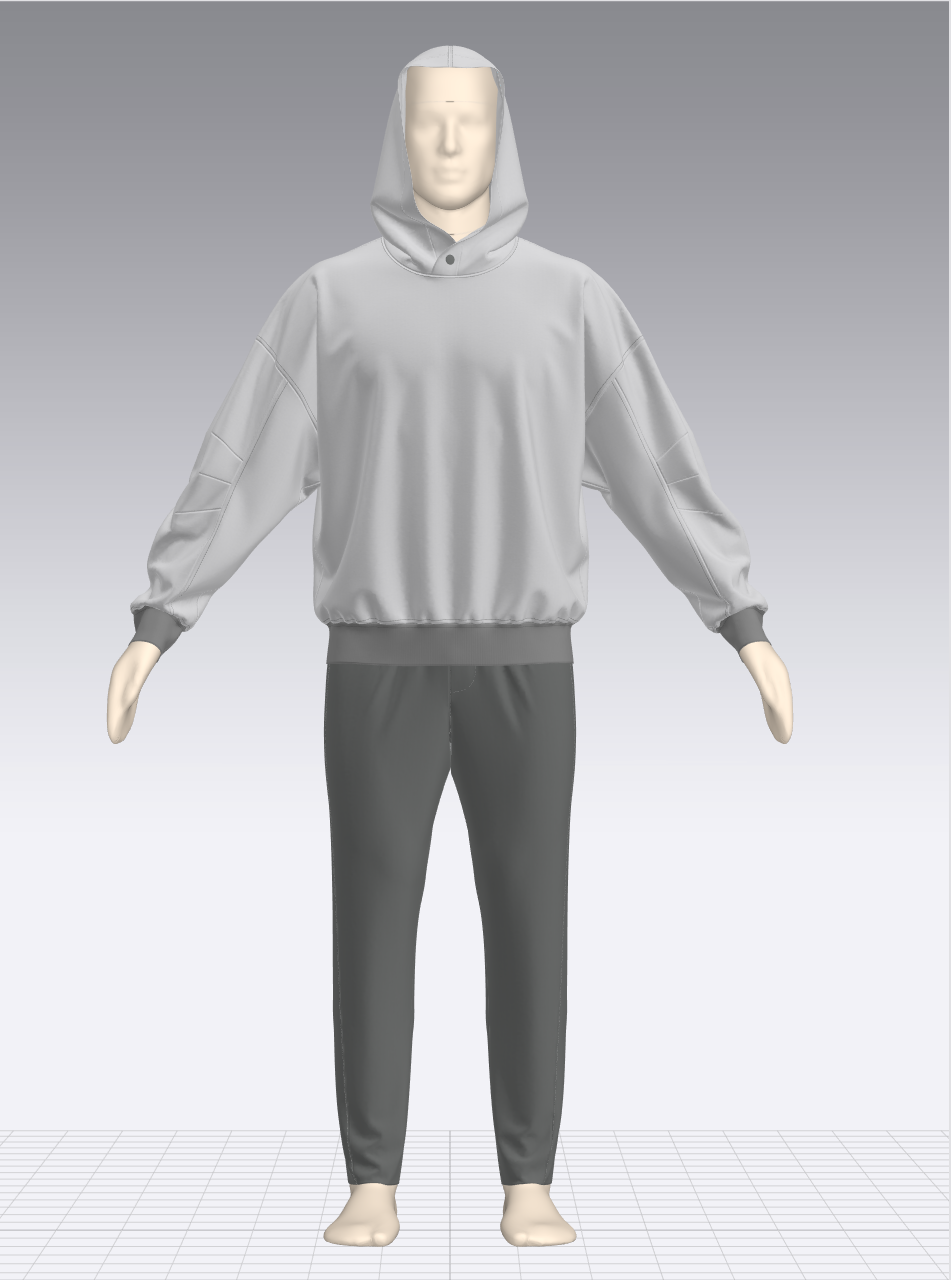
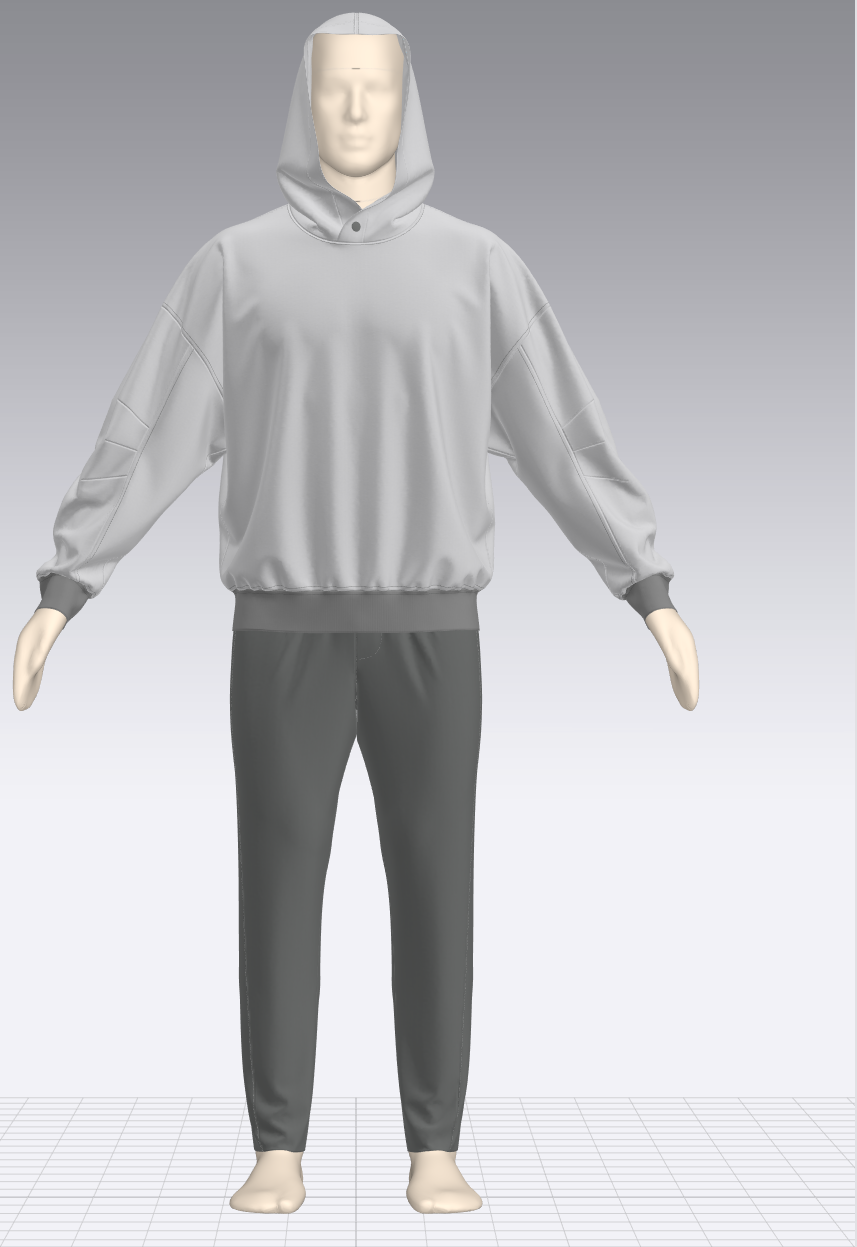
Keep a card's first image full size, pair the rest
The previous pass capped every image on a multi-image card, which shrank the
main picture too — on the 人台 card that took three wide slides from 911px to
573px wide for no gain, since they never fit a row anyway. The first image now
renders at its natural size on its own line and only the images after it share
a row, so 人台 is back to how it was and the Hood card gets what was asked for.

The two CLO captures are re-cropped tight to the avatar. Trimming the dead
space either side is what makes the pairing work: at 0.41 and 0.69 aspect they
occupy 717px of the 911px body at 640px tall, so the figures are more than
twice the size of the earlier 280px version and still sit side by side.

diff --git a/src/components/CardItem.jsx b/src/components/CardItem.jsx
@@ -80,6 +80,15 @@ export function CardHeader({ entry }) {
   );
 }
 
+// 底色固定白色（不跟著夜間模式）：這些截圖都是 CLO 的淺色介面，
+// 有些還是去背 PNG，墊深色底反而看不清楚
+function CardImage({ src }) {
+  return (
+    <Image src={imgUrl(src)}
+      style={{ maxWidth: '100%', border: '1px solid var(--border)', borderRadius: 8, background: '#fff' }} />
+  );
+}
+
 // 卡片內容（展開後顯示）
 export function CardBody({ entry }) {
   const paths = entry.paths || [];
@@ -94,15 +103,15 @@ export function CardBody({ entry }) {
         </div>
       )}
       {images.length > 0 && (
-        // 多張圖並排成一列（壓高度讓一個畫面看得完），單張圖維持原尺寸
-        <div className={images.length > 1 ? 'card-imgs card-imgs-multi' : 'card-imgs'}
-          style={{ marginTop: hasContent || paths.length ? 12 : 0 }}>
+        // 第一張是主圖，維持原尺寸自己一列；其餘（如果有）並排成一列，免得整張卡拉得太長
+        <div className="card-imgs" style={{ marginTop: hasContent || paths.length ? 12 : 0 }}>
           <Image.PreviewGroup>
-            {images.map((p, i) => (
-              /* 底色固定白色（不跟著夜間模式）：這些截圖都是 CLO 的淺色介面，
-                 有些還是去背 PNG，墊深色底反而看不清楚 */
-              <Image key={i} src={imgUrl(p)} style={{ maxWidth: '100%', border: '1px solid var(--border)', borderRadius: 8, background: '#fff' }} />
-            ))}
+            <CardImage src={images[0]} />
+            {images.length > 1 && (
+              <div className="card-imgs-rest">
+                {images.slice(1).map((p, i) => <CardImage key={i} src={p} />)}
+              </div>
+            )}
           </Image.PreviewGroup>
         </div>
       )}

diff --git a/src/index.css b/src/index.css
@@ -64,11 +64,11 @@ body {
 
 .card-imgs { display: flex; flex-direction: column; align-items: flex-start; gap: 10px; margin-top: 12px; }
 
-/* 多張圖：改成橫排並統一高度，一個畫面看得完；點圖仍可放大看原尺寸。
-   280px 是量出來的——Hood 那張卡三張圖（1 橫 2 直）加起來的寬高比是 2.91，
-   內容區約 910px 寬，高度壓到 280 才排得下一列還留餘裕。視窗更窄時會自動換行。 */
-.card-imgs-multi { flex-direction: row; flex-wrap: wrap; align-items: flex-start; gap: 12px; }
-.card-imgs-multi img { max-height: 280px; width: auto; }
+/* 第二張之後的圖並排成一列，卡片才不會被拉得太長。主圖不受影響，維持原尺寸。
+   640px 是量出來的——Hood 卡那兩張人台圖切掉兩側空白後合計寬高比 1.10，
+   內容區約 910px 寬，並排放得下還有餘裕。視窗更窄或圖太寬時會自動換行。 */
+.card-imgs-rest { display: flex; flex-wrap: wrap; align-items: flex-start; gap: 12px; width: 100%; }
+.card-imgs-rest img { max-height: 640px; width: auto; }
 
 /* 分組按鈕列：第二層標題放在內容上方，點按鈕下方直接顯示內容 */
 .chip-row { display: flex; flex-wrap: wrap; gap: 8px; margin-bottom: 16px; }
